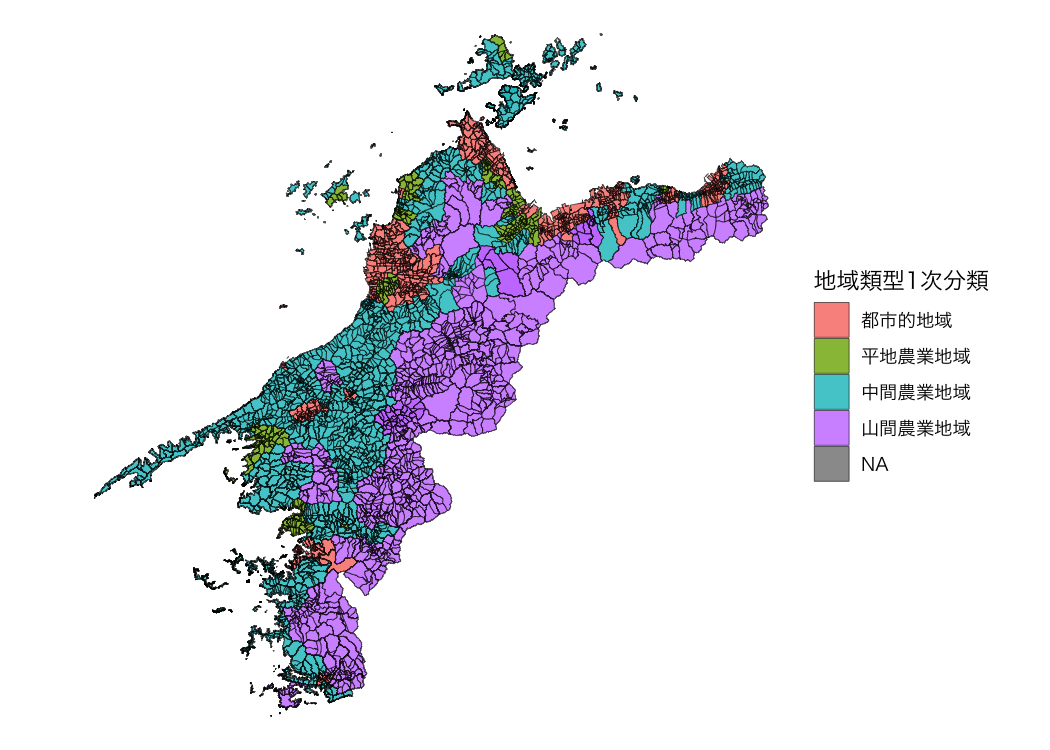
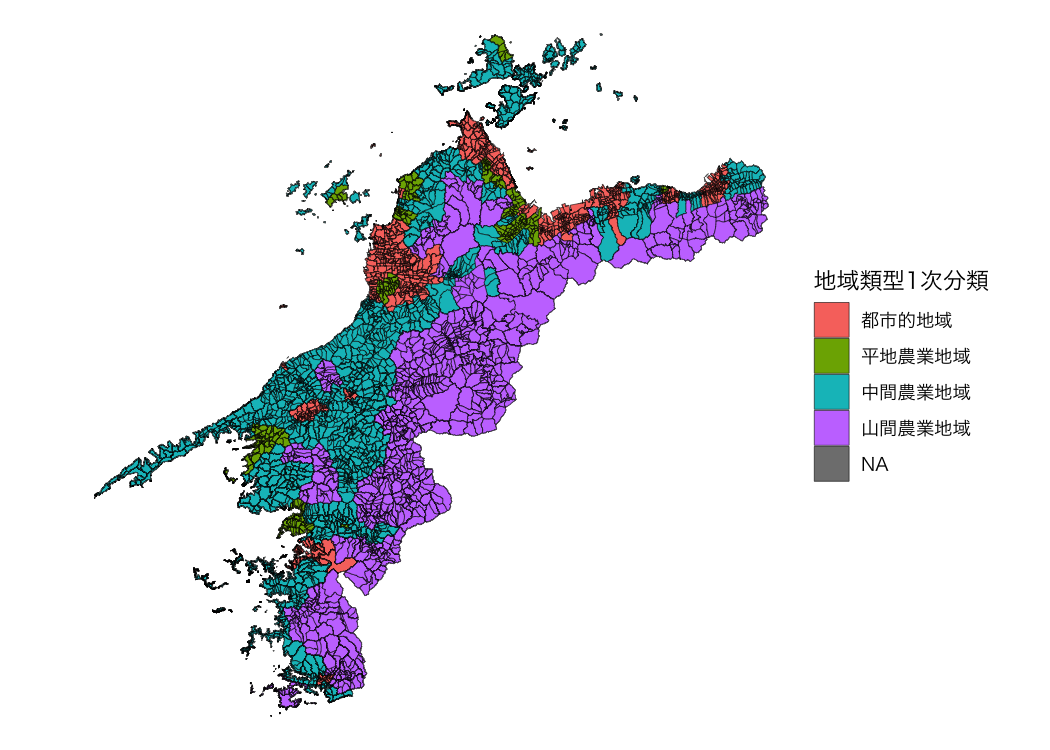
Improve handling of duplicate keys in rcom_code_table

diff --git a/README.md b/README.md
@@ -231,14 +231,16 @@ b3 <- get_boundary(d2, path = "~", boundary_type = 3, quiet = TRUE)
 
 m1 <- b1 |>
   read_ikasudb("~/IA0001_2023_2020_38.xlsx") |>
-  read_ikasudb("~/SA1009_2020_2020_38.xlsx") |>
-  read_ikasudb("~/GC0001_2019_2020_38.xlsx") |>
   mutate(
-    地域類型1次分類 = factor(地域類型1次分類, labels = c("都市的地域", "平地農業地域", "中間農業地域", "山間農業地域"))
+    地域類型1次分類 = factor(
+      地域類型1次分類,
+      levels = 1:4,
+      labels = c("都市的地域", "平地農業地域", "中間農業地域", "山間農業地域")
+    )
   )
 
 ggplot() +
-  geom_sf(data = m1, aes(fill = 地域類型1次分類), alpha = .8) +
+  geom_sf(data = m1, aes(fill = 地域類型1次分類)) +
   theme_void() +
   theme(text = element_text(family = "Hiragino Sans"))
 ```
